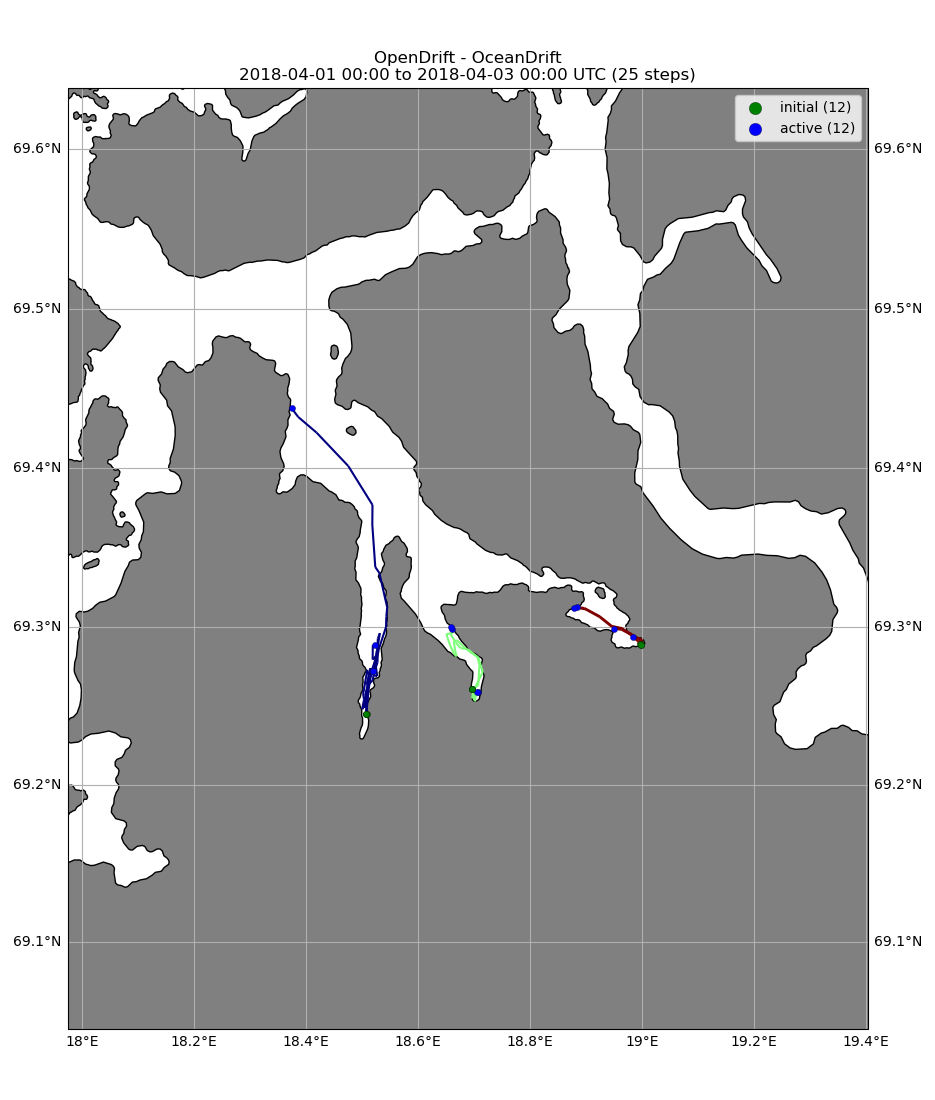
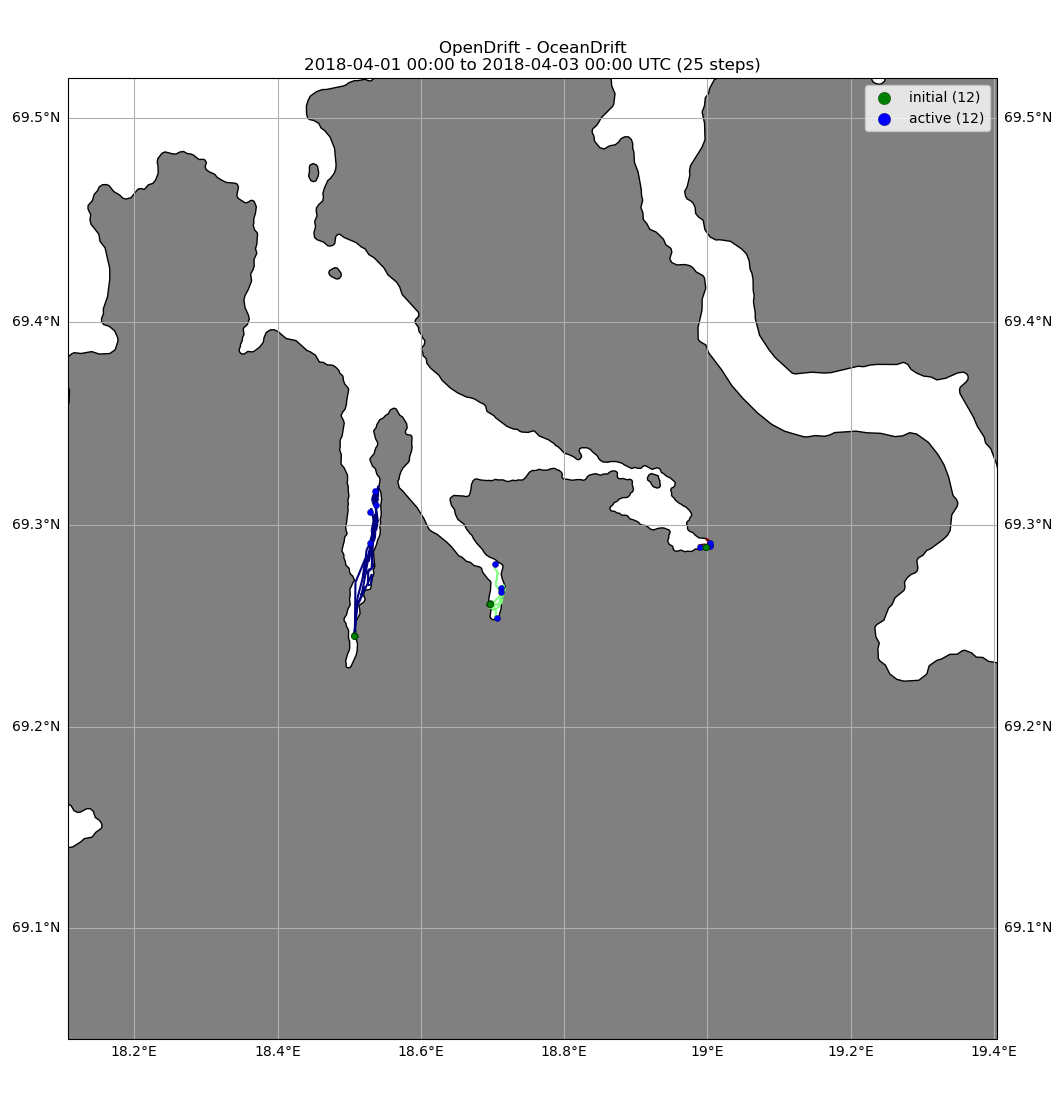
Added vertical diffusivity and advection

Changed region(s): [[0.0, 0.0309, 0.9925, 0.9582]]

diff --git a/run_od_fvcom.py b/run_od_fvcom.py
@@ -18,7 +18,7 @@ from opendrift.readers import reader_shape
 from opendrift.models.oceandrift import OceanDrift
 
 outfile = 'nolaDrift.nc'
-o = OceanDrift(loglevel=20,logfile='log.txt')
+o = OceanDrift(loglevel=20) #logfile='log.txt')
 
 #Readers
 reader_coast = reader_shape.Reader.from_shpfiles('coast/po10_coast.shp')
@@ -29,7 +29,7 @@ o.add_reader(reader_coast) # Add coastline identical to the FVCOM grid
 
 proj = "+proj=utm +zone=33W, +north +ellps=WGS84 +datum=WGS84 +units=m +no_defs"
 
-fl = Filelist('fileList.txt', start_time='2018-4-1-0', stop_time='2018-4-7-0') # List of path to forcing
+fl = Filelist('fileList.txt', start_time='2018-4-1-0', stop_time='2018-4-4-0') # List of path to forcing
 unique_files = fl.unique_files()
 
 for f in unique_files:
@@ -40,9 +40,13 @@ for f in unique_files:
 
 #Configuration 
 o.set_config('general:use_auto_landmask',False) # Override default landmask
-
 o.set_config('general:coastline_action', 'previous') # Jump back to previous position when meeting coast
-
+o.set_config('drift:vertical_mixing',True) # Move particles vertically according to eddy diffusivity and buoyancy 
+o.set_config('vertical_mixing:diffusivitymodel', 'windspeed_Sundby1983')
+o.set_config('drift:vertical_advection',True) # Move particles vertically according to vertical ocean currents
+o.set_config('environment:fallback:sea_surface_wave_stokes_drift_x_velocity',.2)
+#o.set_config('drift:current_uncertainty',2)
+#o.set_config('drift:wind_uncertainty',2)
 
 N = 2 # Number of particles
 #z = -10 * np.random.uniform(0, 1, N)
@@ -73,7 +77,7 @@ for t in start_times:
 o.run(time_step=3600, duration=timedelta(days=2), time_step_output=3600*2, outfile=outfile, export_buffer_length=4)
 
 # Show output
-o.plot(fast=True, linecolor='origin_marker', legend=['Målselv','Aursfjord','Nordfjord'],colorbar=False,filename='drift_plot.png')
-#o.plot_property('z')
+#o.plot(fast=True, linecolor='origin_marker', legend=['Målselv','Aursfjord','Nordfjord'],colorbar=False,filename='drift_plot.png')
+o.plot_property('z')
 #o.plot_property('z', mean=True)
-o.animation(fast=True, color='origin_marker', legend=['Målselv','Aursfjord','Nordfjord'],colorbar=False,filename='drift_animation.mp4')
+#o.animation(fast=True, color='origin_marker', legend=['Målselv','Aursfjord','Nordfjord'],colorbar=False,filename='drift_animation.mp4')
